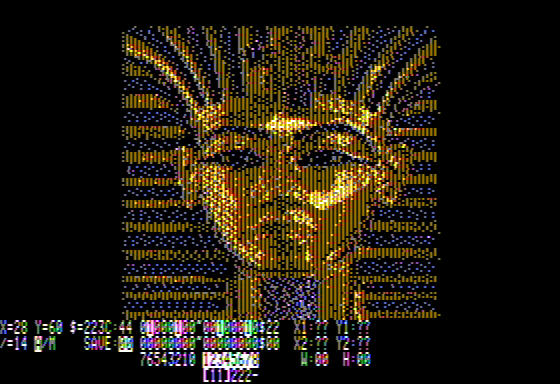
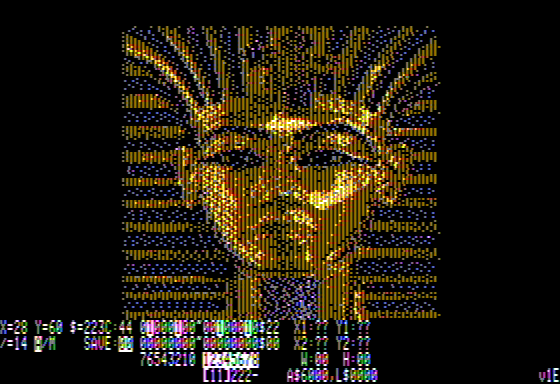
Update readme/screenshot to version 1E

Changed region(s): [[0.5161, 0.9375, 0.6982, 1.0], [0.9411, 0.9375, 1.0, 1.0]]

diff --git a/README.md b/README.md
@@ -13,6 +13,14 @@
 5. `BLOAD TUT.DHGR`
 6. `BRUN DHGR.BYTE`
 
+Ver 30.
+- Added beep for illegal keys
+- Added sprite info
+- Added version number in bottom right
+
+Ver 28.
+- Fixed hex input
+
 Ver 27.
 - Ripped out ROM output routines and replaced with native code for speed
 - Updated the status bar so that the saved bits and reverse bits are displayed
